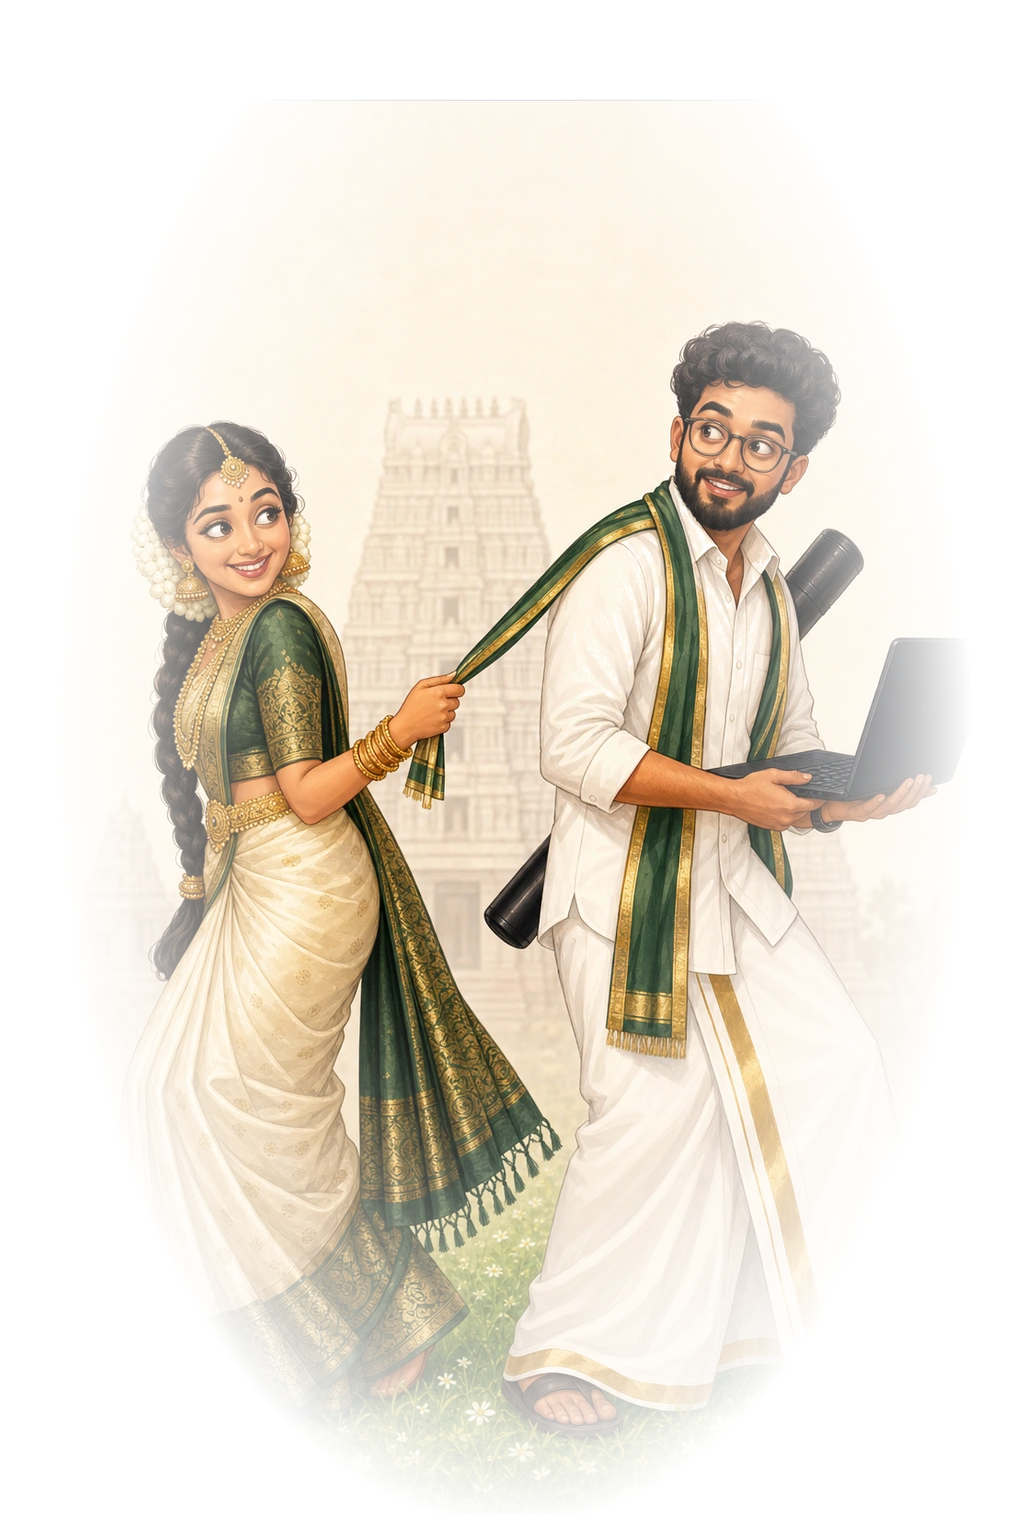
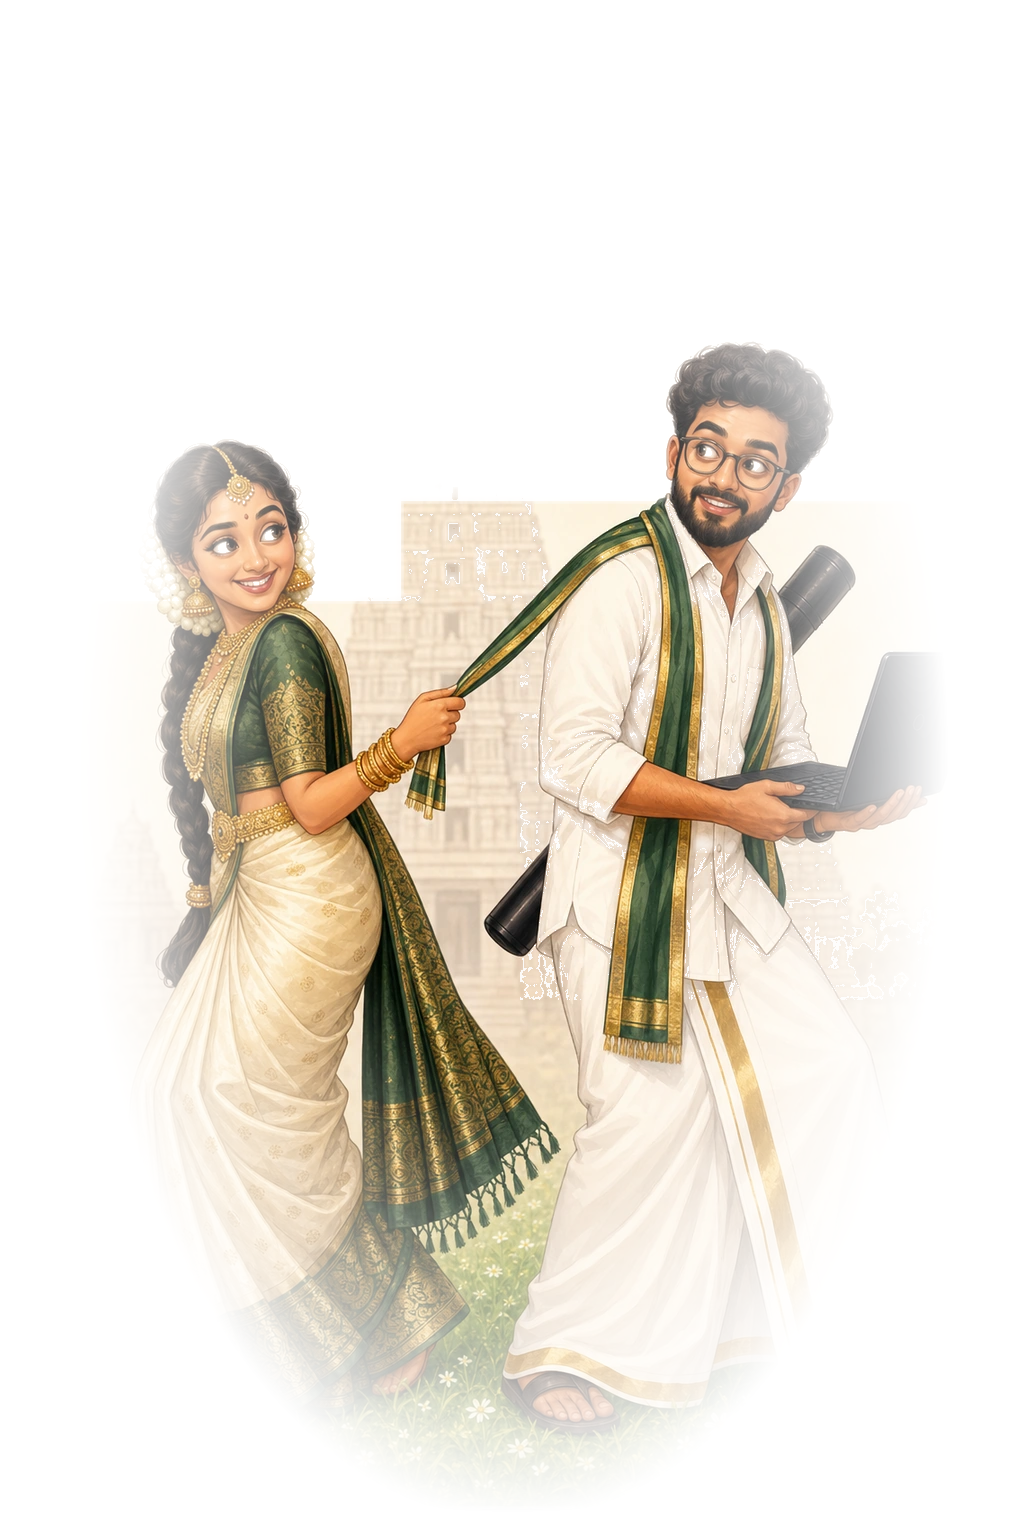
Deepen couple art feathering to remove cool rectangular halo
Increase transparency around residual cream/temple fill and warm the
hero image shadow so the illustration sits in the garden without a
blue-edged box.

diff --git a/src/components/TempleEntranceHero/TempleEntranceHero.module.css b/src/components/TempleEntranceHero/TempleEntranceHero.module.css
@@ -62,12 +62,13 @@
 
 .blessing {
   font-family: var(--font-display);
-  font-size: clamp(0.78rem, 2vw, 0.95rem);
-  letter-spacing: 0.18em;
+  font-size: clamp(0.82rem, 2.1vw, 1rem);
+  letter-spacing: 0.12em;
   color: var(--gold-soft);
   text-shadow: 0 2px 10px rgba(20, 40, 10, 0.45);
   animation: fadeRise 1s ease both;
   margin: 0.15rem 0 0.35rem;
+  white-space: nowrap;
 }
 
 .together {
@@ -119,6 +120,7 @@
   justify-content: center;
   animation: sceneRise 1.35s ease both;
   background: transparent;
+  isolation: isolate;
 }
 
 .sceneImage {
@@ -130,10 +132,11 @@
   display: block;
   border-radius: 0;
   background: transparent;
+  /* Warm green shadow only — avoid cool/blue halos around the art */
   filter:
-    saturate(1.06)
-    contrast(1.03)
-    drop-shadow(0 18px 36px rgba(12, 36, 18, 0.35));
+    saturate(1.04)
+    contrast(1.02)
+    drop-shadow(0 16px 28px rgba(12, 40, 18, 0.28));
 }
 
 @keyframes fadeRise {
